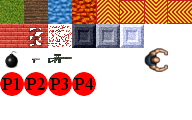
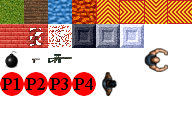
Moved player sprite to graphics.png.

Changed region(s): [[0.5312, 0.6, 0.625, 0.8]]

diff --git a/core/src/wge3/entity/character/Player.java b/core/src/wge3/entity/character/Player.java
@@ -1,14 +1,12 @@
 package wge3.entity.character;
 
-import com.badlogic.gdx.Gdx;
-import com.badlogic.gdx.graphics.Texture;
 import com.badlogic.gdx.graphics.g2d.Sprite;
+import wge3.world.Tile;
 
 public final class Player extends Creature {
     
     public Player() {
-        texture = new Texture(Gdx.files.internal("graphics/player.png"));
-        sprite = new Sprite(texture);
+        sprite = new Sprite(texture, 4*Tile.size, 3*Tile.size, Tile.size, Tile.size);
         updateSpriteRotation();
         
         team = 0;
